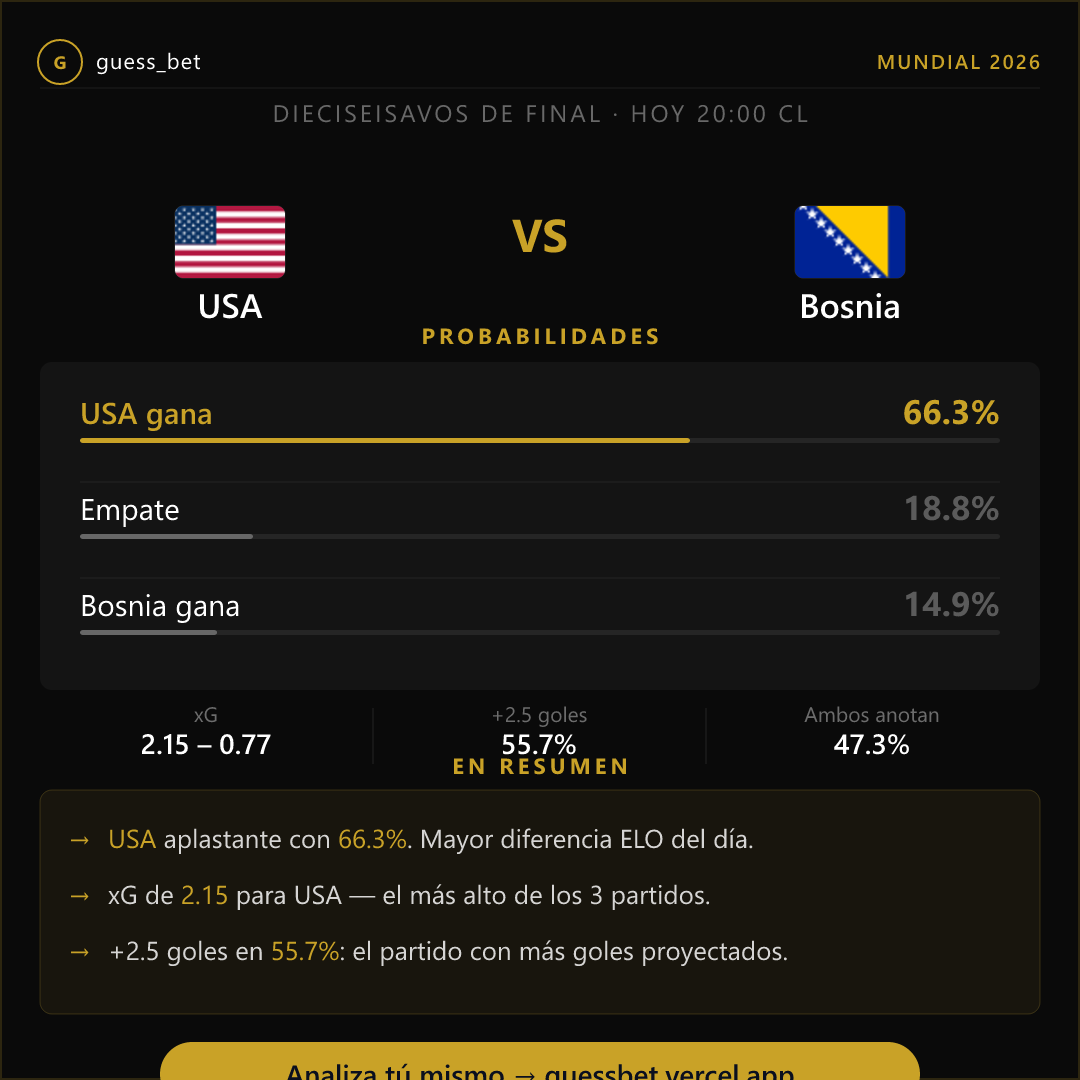
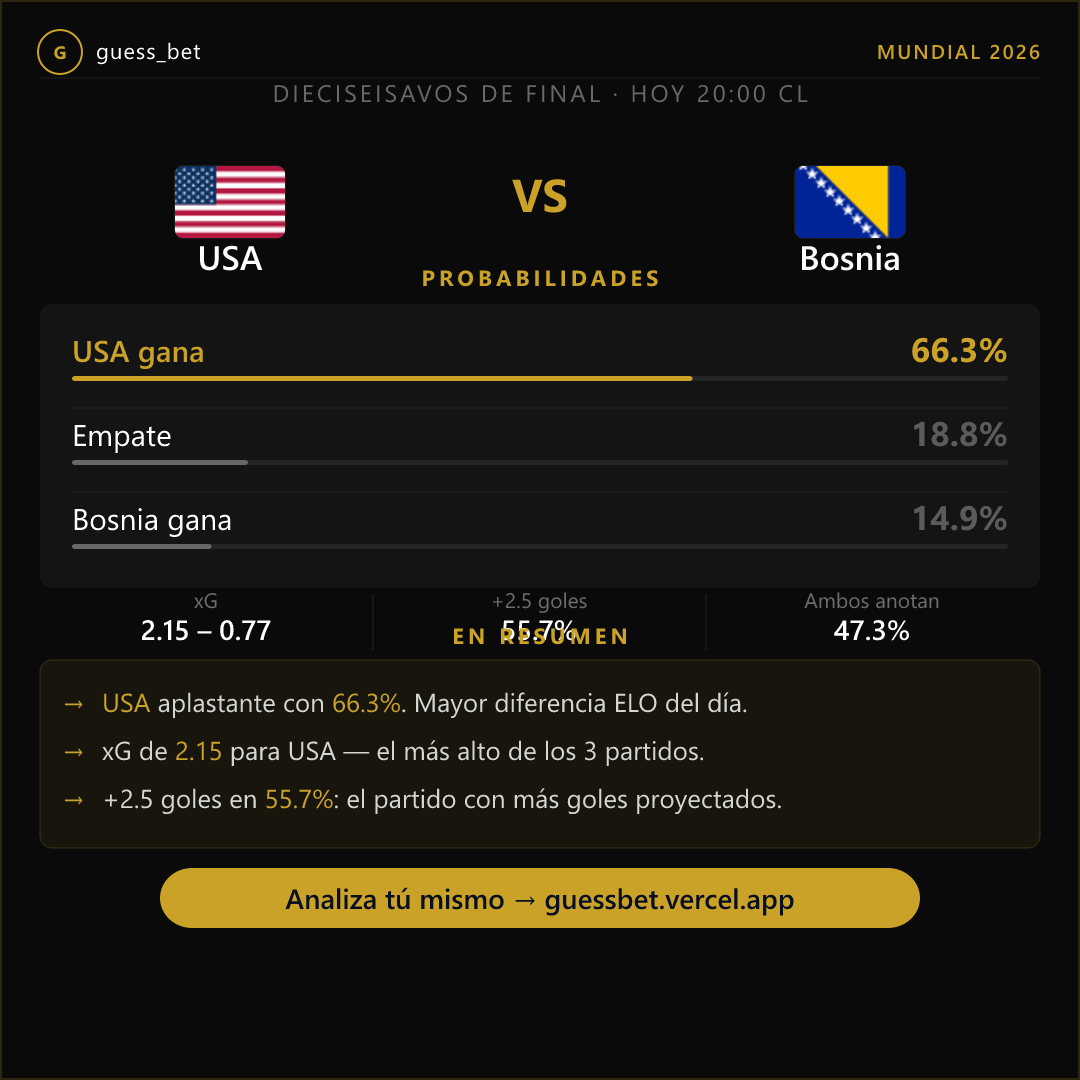
Corrige layout posts partidos: contenido ya no se corta abajo en 1080x1080

diff --git a/scripts/build_ig_post_partidos.py b/scripts/build_ig_post_partidos.py
@@ -67,7 +67,7 @@ def build_svg(
         f'stroke="rgba(201,162,39,0.18)" stroke-width="2"/>')
 
     # ── header ────────────────────────────────────────────────────────────────
-    HDR_Y = 62
+    HDR_Y = 52
     # Logo G
     add(f'<circle cx="60" cy="{HDR_Y}" r="22" fill="none" stroke="{GOLD}" stroke-width="2"/>')
     add(f'<text x="60" y="{HDR_Y+7}" font-family="{FONT}" font-size="18" font-weight="700" '
@@ -83,13 +83,13 @@ def build_svg(
         f'stroke="rgba(255,255,255,0.08)" stroke-width="1"/>')
 
     # ── fase label ────────────────────────────────────────────────────────────
-    PHASE_Y = HDR_Y + 60
+    PHASE_Y = HDR_Y + 50
     add(f'<text x="{W//2}" y="{PHASE_Y}" font-family="{FONT}" font-size="24" font-weight="400" '
         f'fill="rgba(255,255,255,0.38)" text-anchor="middle" letter-spacing="3">'
         f'{esc(phase_label)}</text>')
 
     # ── bloque equipos ────────────────────────────────────────────────────────
-    TEAMS_CY = PHASE_Y + 120
+    TEAMS_CY = PHASE_Y + 100
     FLAG_W, FLAG_H_px = 110, 72
     FLAG_R = 8
     home_cx, away_cx, vs_cx = 230, W-230, W//2
@@ -110,7 +110,7 @@ def build_svg(
     draw_flag(home_cx, home_flag_code, 'hflag')
     draw_flag(away_cx, away_flag_code, 'aflag')
 
-    NAME_Y = TEAMS_CY + FLAG_H_px//2 + 40
+    NAME_Y = TEAMS_CY + FLAG_H_px//2 + 32
     add(f'<text x="{home_cx}" y="{NAME_Y}" font-family="{FONT}" font-size="34" font-weight="600" '
         f'fill="{WHITE}" text-anchor="middle">{esc(home_name)}</text>')
     add(f'<text x="{vs_cx}" y="{TEAMS_CY+10}" font-family="{FONT}" font-size="46" font-weight="700" '
@@ -119,10 +119,10 @@ def build_svg(
         f'fill="{WHITE}" text-anchor="middle">{esc(away_name)}</text>')
 
     # ── PROBABILIDADES ────────────────────────────────────────────────────────
-    PROB_TOP = NAME_Y + 44
-    PAD_X = 40
+    PROB_TOP = NAME_Y + 34
+    PAD_X = 32
     INNER_W = W - 80
-    ROW_H = 96
+    ROW_H = 84
     PROB_H = ROW_H * 3 + PAD_X
 
     add(f'<rect x="40" y="{PROB_TOP}" width="{INNER_W}" height="{PROB_H}" rx="12" '
@@ -166,7 +166,7 @@ def build_svg(
                 f'stroke="rgba(255,255,255,0.06)" stroke-width="1"/>')
 
     # ── stats secundarios ─────────────────────────────────────────────────────
-    STATS_Y = PROB_TOP + PROB_H + 32
+    STATS_Y = PROB_TOP + PROB_H + 20
     stats = [
         ('xG', f'{xg_home:.2f} – {xg_away:.2f}'),
         ('+2.5 goles', f'{over25:.1f}%'),
@@ -184,9 +184,9 @@ def build_svg(
                 f'stroke="rgba(255,255,255,0.1)" stroke-width="1"/>')
 
     # ── EN RESUMEN ────────────────────────────────────────────────────────────
-    SUM_TOP = STATS_Y + 68
-    LINE_H  = 56
-    SUM_PAD = 28
+    SUM_TOP = STATS_Y + 52
+    LINE_H  = 48
+    SUM_PAD = 22
     SUM_H   = len(summary_points)*LINE_H + SUM_PAD*2
 
     add(f'<rect x="40" y="{SUM_TOP}" width="{INNER_W}" height="{SUM_H}" rx="12" '
@@ -204,8 +204,8 @@ def build_svg(
         add(f'<text x="{TEXT_X}" y="{py}" font-family="{FONT}" font-size="26" font-weight="400">{tspans}</text>')
 
     # ── CTA footer ────────────────────────────────────────────────────────────
-    CTA_Y = SUM_TOP + SUM_H + 28
-    CTA_H = 64
+    CTA_Y = SUM_TOP + SUM_H + 20
+    CTA_H = 60
     CTA_W = 760
     CTA_X = (W - CTA_W)//2
     add(f'<rect x="{CTA_X}" y="{CTA_Y}" width="{CTA_W}" height="{CTA_H}" rx="32" fill="{GOLD}"/>')